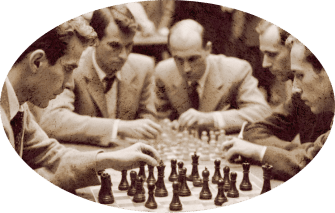
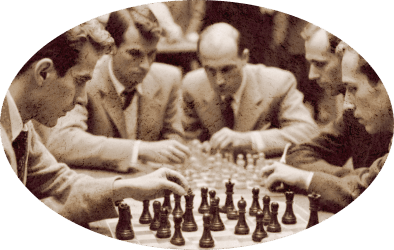
header fix, smooth scroll, turner screen

diff --git a/styles.css b/styles.css
@@ -1,1 +1,1 @@
[2 lines of base64/hex data omitted]

diff --git a/index.html b/index.html
@@ -35,7 +35,7 @@
         <nav>
             <div class="links">
                 <a href="#support" class="button button--dark">Поддержать шахматную&nbsp;мысль</a>
-                <a href="#" class="button button--light">Подробнее о&nbsp;турнире</a>
+                <a href="#turner" class="button button--light">Подробнее о&nbsp;турнире</a>
             </div>
 
 <!--            <br />-->
@@ -71,9 +71,51 @@
         <section id="support" class="support-screen">
             <h3 class="support-screen_article">
                 <span>Чтобы&nbsp;поддержать Международный васюкинский турнир</span>
-                <a href="#" class="support-screen_article_image"><img src="./images/image1.png" alt="Международный васюкинский турнир"></a>
+                <a href="#" class="support-screen_article_picture">
+                    <img src="./images/image1.png" alt="Международный васюкинский турнир" width="394" height="250" />
+                </a>
                 <span>посетите лекцию на&nbsp;тему: <a href="#">«Плодотворная дебютная идея»</a></span>
             </h3>
+        </section>
+        <section id="turner" class="turner-screen">
+            <div class="turner-screen_picture">
+                <a href="#" class="turner-screen_picture_conatiner">
+                    <img src="./images/image2.png"
+                     width="529"
+                     height="609"
+                     alt="Сеанс одновременной игры в шахматы на 160 досках гроссмейстера О.Бендера" />
+                </a>
+            </div>
+            <div class="turner-screen_title">
+                <h3>И Сеанс
+                    <a href="#">одновременной игры в&nbsp;шахматы на&nbsp;160&nbsp;досках</a>
+                    гроссмейстера О.&nbsp;Бендера</h3>
+            </div>
+            <div class="turner-screen_details">
+                <table>
+                    <tr>
+                        <td>Место проведения:</td>
+                        <td><strong>Клуб &laquo;Картонажник&raquo;</strong></td>
+                    </tr>
+                    <tr>
+                        <td>Дата и&nbsp;время мероприятия:</td>
+                        <td><strong>22&nbsp;июня 1927&nbsp;г. в&nbsp;18:00</strong></td>
+                    </tr>
+                    <tr>
+                        <td>Стоимость входных билетов:</td>
+                        <td><strong>20&nbsp;коп.</strong></td>
+                    </tr>
+                    <tr>
+                        <td>Плата за&nbsp;игру:</td>
+                        <td><strong>50&nbsp;коп.</strong></td>
+                    </tr>
+                    <tr>
+                        <td>Взнос на&nbsp;телеграммы:</td>
+                        <td><strong><del>100 руб.</del> 21 руб. 16&nbsp;коп.</strong></td>
+                    </tr>
+                </table>
+                <p><a href="#">По&nbsp;всем вопросам обращаться в&nbsp;администрацию к&nbsp;К.&nbsp;Михельсону</a></p>
+            </div>
         </section>
     </div>
 </main>

diff --git a/styles/_turner_screen.scss b/styles/_turner_screen.scss
@@ -1,0 +1,99 @@
+.turner-screen {
+  display: grid;
+  grid-template-columns: 479px 1fr;
+  grid-template-rows: auto 1fr;
+  gap: 17px;
+  margin-bottom: 200px;
+
+  &_picture {
+    grid-row: span 2;
+    position: relative;
+    min-height: 527px;
+    padding: 47px 27px 35px 0; //47px 17pxv 35px
+
+    &_conatiner {
+      display: block;
+      position: absolute;
+      top: 50%;
+      right: 0;
+      transform: translateY(-50%);
+    }
+  }
+
+  &_title{
+    padding-top: 47px;
+    padding-bottom: 43px;
+
+    h3 {
+      margin: 0;
+      padding: 0;
+    }
+  }
+
+  &_details {
+    table {
+      tr {
+        td:nth-child(1) {
+          width: 290px;
+        }
+      }
+
+      @media (max-width: 1250px) {
+
+        &, tbody, tr, td {
+          width: 100%;
+          display: block;
+        }
+
+        tr {
+          td {
+            border: 0;
+            padding: 12px 0;
+          }
+          td:nth-child(1) {
+            width: 100%;
+            padding-bottom: 0;
+          }
+          &:first-child {
+            td:first-child {
+              padding-top: 0;
+            }
+          }
+          &:last-child {
+            td:last-child {
+              padding-bottom: 0;
+            }
+          }
+        }
+      }
+    }
+  }
+
+  @media (max-width: 920px) {
+    display: block;
+    margin-bottom: 120px;
+
+    &_picture {
+      position: static;
+      padding: 0;
+      min-height: 0;
+
+      &_conatiner {
+        position: static;
+        top: auto;
+        right: auto;
+        transform: none;
+
+        img {
+          display: block;
+          max-width: 100%;
+          height: auto;
+        }
+      }
+    }
+
+    &_title {
+      padding-top: 19px;
+    }
+  }
+}

diff --git a/styles/_layout.scss b/styles/_layout.scss
@@ -1,5 +1,14 @@
 @use "fonts" as f;
 
+html {
+  scroll-behavior: smooth;
+  scroll-margin-top: 30px;
+
+  @media (prefers-reduced-motion: reduce) {
+    scroll-behavior: auto;
+  }
+}
+
 body {
   @include f.GolosText();
   font-size: var(--base-font-size);
@@ -52,6 +61,64 @@ h3 {
 
   @media (max-width: 600px) {
     font-size: 28px;
+  }
+}
+b, strong {
+  @include f.GolosText(700);
+}
+del, s {
+  text-decoration: none;
+  position: relative;
+
+  &::before {
+    content: '';
+    position: absolute;
+    width: 100%;
+    top: 50%;
+    border-top: 2px solid var(--header-link-text);
+  }
+}
+table {
+  border-collapse: collapse;
+  width: 100%;
+  margin-bottom: 45px;
+
+  tr {
+    border-bottom: 1px solid var(--table-border);
+
+    &:first-child {
+      th, td {
+        padding-top: 0;
+      }
+    }
+
+    &:last-child {
+      border-bottom: 0;
+
+      th, td{
+        padding-bottom: 0;
+      }
+    }
+  }
+  th {
+    @include f.GolosText(700);
+  }
+  th, td {
+    border-left: 1px solid var(--table-border);
+    padding: 16px;
+
+    &:first-child {
+      border-left: 0;
+      padding-left: 0;
+    }
+
+    &:last-child {
+      padding-right: 0;
+    }
+  }
+
+  @media (max-width: 1250px) {
+    margin-bottom: 40px;
   }
 }
 
@@ -112,6 +179,7 @@ h3 {
       776px 776px,
       660px 660px;
   background-repeat: no-repeat;
+  transition: background-position 0.5s ease-out;
 
   @supports (background-blend-mode: color-burn) {
     & {
@@ -290,7 +358,7 @@ h3 {
       }
     }
   }
-  @media (max-width: 450px) {
+  @media (max-width: 1250px) {
     min-height: var(--header-min-height-mobile);
     padding-top: var(--header-padding-top-mmobile);
   }

diff --git a/styles/_support_screen.scss b/styles/_support_screen.scss
@@ -1,15 +1,15 @@
 .support-screen {
-  min-height: 225px;
+  min-height: 250px;
   display: flex;
   align-items: center;
-  margin-bottom: 60px;
+  margin-bottom: 13px;
   position: relative;
-  padding-right: 400px;
+  padding-right: 455px;
 
   &_article {
     margin-bottom: 0;
 
-    &_image {
+    &_picture {
       position: absolute;
       top: 50%;
       right: 0;
@@ -21,12 +21,13 @@
     }
   }
 
-  @media (max-width: 819px) {
+  @media (max-width: 920px) {
     position: static;
     padding-right: 0;
+    min-height: 0;
 
     &_article {
-      &_image {
+      &_picture {
         position: static;
         top: auto;
         right: auto;
@@ -37,6 +38,8 @@
 
         img{
           display: inline-block;
+          max-width: 100%;
+          height: auto;
         }
       }
     }

diff --git a/styles/_main_screen.scss b/styles/_main_screen.scss
@@ -47,13 +47,17 @@
         display: block;
         text-align: center;
       }
+
+      @media (max-width: 1250px) and (min-width: 600px) {
+        text-shadow: 0 0 1px rgba(255, 255, 255,.9);
+      }
     }
     &_content {
       text-align: center;
       font-size: 18px;
       line-height: 130%;
 
-      @media (max-width: 1200px) and (min-width: 600px) {
+      @media (max-width: 1250px) and (min-width: 600px) {
         text-shadow: 0 0 5px var(--button-text);
         background: rgba(255,255,255,.5);
         border-radius: 15px;
@@ -81,7 +85,7 @@
   }
 
   .button--light {
-    @media (max-width: 1200px) {
+    @media (max-width: 1250px) {
       border-color: transparent;
       background-color: rgba(255, 255, 255, .9);
 

diff --git a/styles/_variables.scss b/styles/_variables.scss
@@ -6,6 +6,7 @@
   --logo-text: #595653;
   --link-text: #3057A2;
   --header-link-text: #f54932;
+  --table-border: #D0D0D0;
 
   --container-width: 89.45%;
   --container-width-mobile: 89.6%;

diff --git a/styles.scss b/styles.scss
@@ -7,3 +7,4 @@
 // screens
 @use "./styles/main_screen";
 @use "./styles/support_screen";
+@use "./styles/turner_screen";
